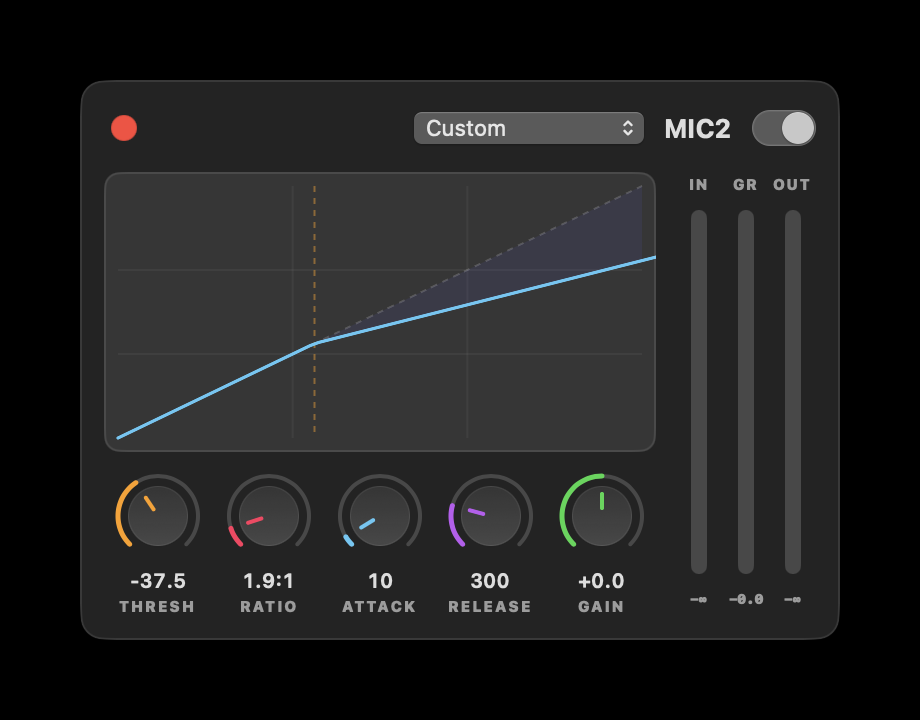
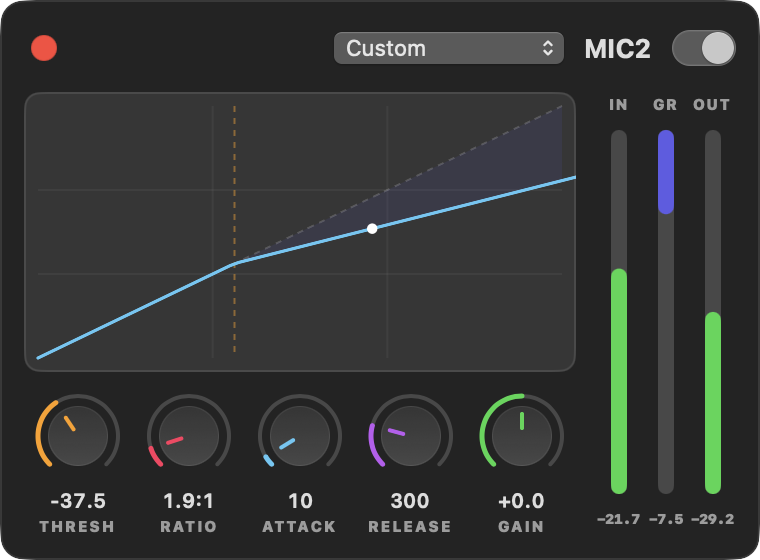
Crop screenshots to the window edges
No padding or studio backdrop: the captures keep their transparent
rounded corners and sit tightly on the page.

diff --git a/README.ru.md b/README.ru.md
@@ -62,14 +62,14 @@ Dim / Mono / Speaker B, +48V / Inst на входах, уровни и веб-п
 ## Скриншоты
 
 <p align="center">
-  <img src="docs/screenshots/popover.png" width="330" alt="Поповер в строке меню">
-  <img src="docs/screenshots/levels.png" width="330" alt="Индикаторы уровней входов">
+  <img src="docs/screenshots/popover.png" width="280" alt="Поповер в строке меню">
+  <img src="docs/screenshots/levels.png" width="190" alt="Индикаторы уровней входов">
 </p>
 <p align="center"><sub>Поповер · уровни входов</sub></p>
 
 <p align="center">
-  <img src="docs/screenshots/compressor.png" width="450" alt="Компрессор">
-  <img src="docs/screenshots/eq.png" width="450" alt="Эквалайзер">
+  <img src="docs/screenshots/compressor.png" width="380" alt="Компрессор">
+  <img src="docs/screenshots/eq.png" width="440" alt="Эквалайзер">
 </p>
 <p align="center"><sub>Компрессор и эквалайзер</sub></p>
 

diff --git a/README.md b/README.md
@@ -15,14 +15,14 @@ Speaker B, +48V and Inst on inputs, level meters, and a web remote for your phon
 ## Screenshots
 
 <p align="center">
-  <img src="docs/screenshots/popover.png" width="330" alt="Menu bar popover">
-  <img src="docs/screenshots/levels.png" width="330" alt="Input level meters">
+  <img src="docs/screenshots/popover.png" width="280" alt="Menu bar popover">
+  <img src="docs/screenshots/levels.png" width="190" alt="Input level meters">
 </p>
 <p align="center"><sub>Popover · input levels</sub></p>
 
 <p align="center">
-  <img src="docs/screenshots/compressor.png" width="450" alt="Compressor">
-  <img src="docs/screenshots/eq.png" width="450" alt="Equalizer">
+  <img src="docs/screenshots/compressor.png" width="380" alt="Compressor">
+  <img src="docs/screenshots/eq.png" width="440" alt="Equalizer">
 </p>
 <p align="center"><sub>Compressor and equalizer</sub></p>
 
